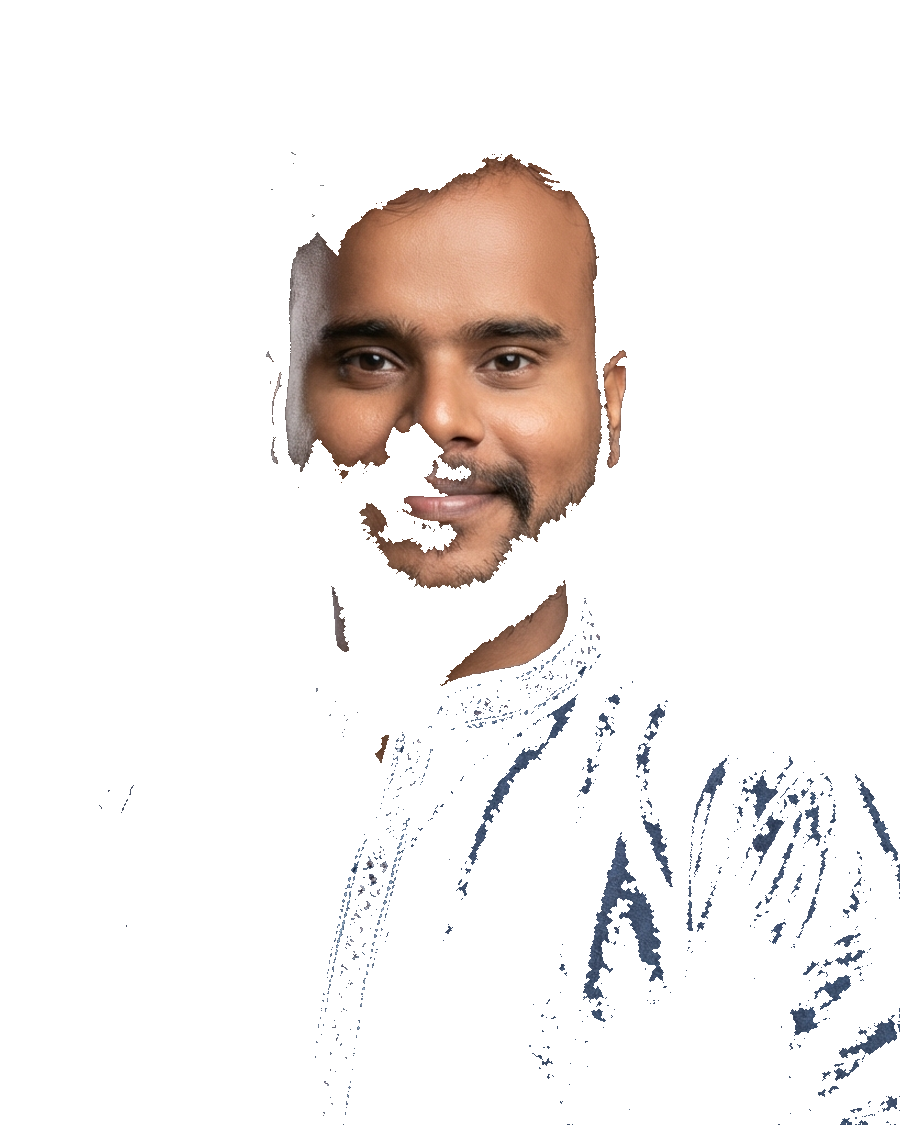
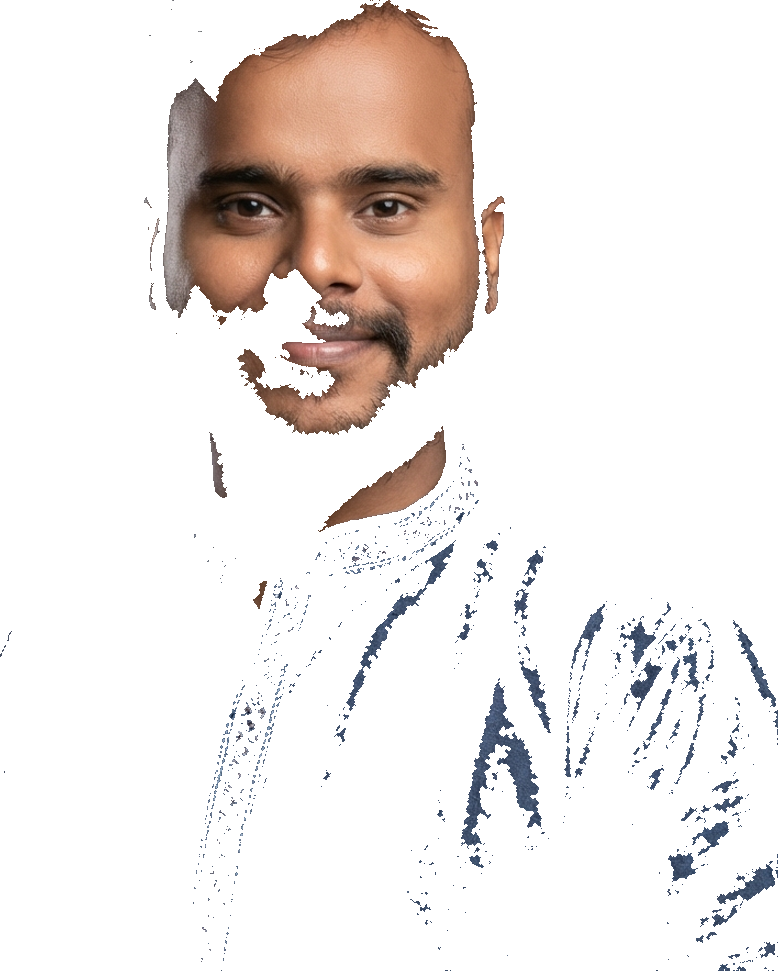
fix(about): trim cutout canvas so the portrait sits centered, add bottom fade so the kurta melts into the page instead of a hard cut

diff --git a/app/about/AboutClientView.jsx b/app/about/AboutClientView.jsx
@@ -133,12 +133,16 @@ export default function AboutClientView() {
                   }}
                 />
 
-                {/* The portrait — background-removed cutout, no card/frame */}
+                {/* The portrait — background-removed cutout, no card/frame, bottom melts into the page */}
                 <motion.div
                   initial={{ opacity: 0, y: 26 }}
                   animate={{ opacity: 1, y: 0 }}
                   transition={{ duration: 0.8, delay: 0.2, ease: [0.16, 1, 0.3, 1] }}
                   className="relative z-10 mx-auto w-[300px] sm:w-[380px]"
+                  style={{
+                    maskImage: "linear-gradient(to bottom, black 72%, transparent 98%)",
+                    WebkitMaskImage: "linear-gradient(to bottom, black 72%, transparent 98%)",
+                  }}
                 >
                   {/* eslint-disable-next-line @next/next/no-img-element */}
                   <img
